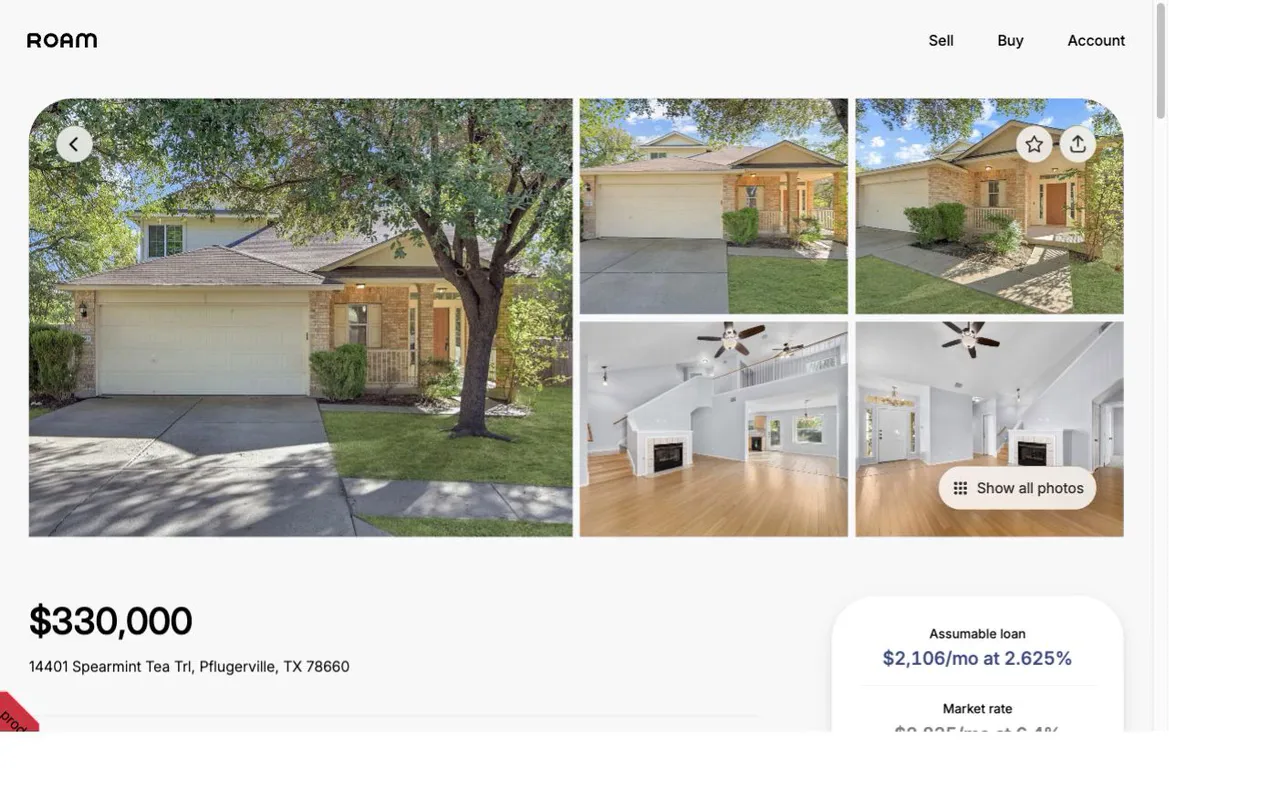
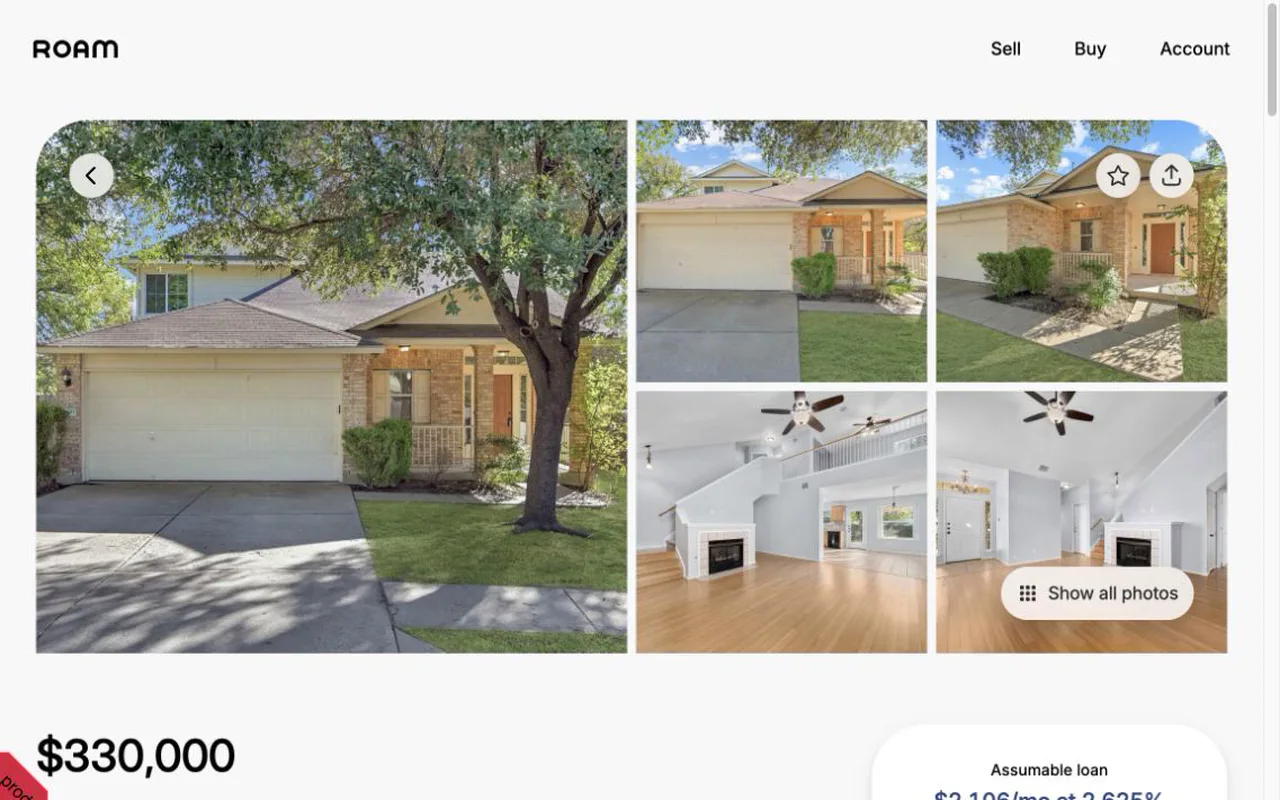
Fix Roam tour playback and framing

diff --git a/tests/e2e/about.spec.ts b/tests/e2e/about.spec.ts
@@ -187,6 +187,8 @@ test('about page carries the broader story, experience, and education', async ({
       height: (video as HTMLVideoElement).videoHeight,
     })),
   ).toEqual({ width: 390, height: 844 });
+  await expect(desktopTourVideo).toHaveCSS('object-fit', 'contain');
+  await expect(mobileTourVideo).toHaveCSS('object-fit', 'contain');
 
   await paymentsTab.focus();
   await page.keyboard.press('ArrowLeft');

diff --git a/src/assets/experience/README.md b/src/assets/experience/README.md
@@ -6,8 +6,8 @@ These local images and the public video assets in `public/media/` support the Ro
 - `public/media/roam-search-mobile.*` is the authenticated 390×844 Austin search recording rendered in the Search view on `/about`. Captured from a Browser viewport override that exactly matches the inline SVG phone frame and normalized to 30 fps for delivery, it opens the mobile filter sheet, applies a 3.5% maximum rate, updates the visible inventory from 204 to 105 homes, and scrolls the filtered results. The WebM and MP4 encodes share `roam-search-mobile-poster.webp` and fit the phone frame without cropping or blank page space.
 - `public/media/roam-search.*` is the authenticated 1280×800 desktop recording rendered in the Search view. Its 30 fps encodes keep Account and the full filter bar visible while applying the same 3.5% maximum rate, updating the inventory from 204 to 105 homes, and smoothly scrolling the map-and-card results.
 - `public/media/roam-calculator-mobile.*` is the authenticated 390×844 recording rendered in the Payments view. Its 30 fps encodes move from the payment sliders into the payment details, then open the property-tax and home-insurance rows. The capture compensates for the listing page's mobile viewport scaling and crops to the exact phone-frame bounds, so no edge is clipped or stretched.
-- `public/media/roam-product-tour.*` is the authenticated 1280×800 recording rendered in the Tour view. The 30 fps desktop capture starts with the complete listing photo grid and Account navigation, moves through the $330,000 home and its $64,857 minimum down payment (19.7%), then opens Property tax and changes the rate from 2.04% to 1.8%.
-- `public/media/roam-product-tour-mobile.*` is the authenticated 390×844 recording rendered in the Tour view. It opens the mobile filter sheet, applies a 3.5% maximum rate, enters the featured 7409 Lantern View home from the filtered results, and moves through several full-width listing photos. Every source frame is normalized to the phone-frame width before its height is cropped, preserving the complete mobile viewport without clipping the right edge.
+- `public/media/roam-product-tour.*` is the authenticated 1280×800 recording rendered in the Tour view. The 30 fps desktop capture starts with the complete listing photo grid and Account navigation, moves through the $330,000 home and its $64,857 minimum down payment (19.7%), then opens Property tax and changes the rate from 2.04% to 1.8%. Its fixed 16:10 source rectangle and eased frame-by-frame scroll path keep the full viewport visible with stable motion.
+- `public/media/roam-product-tour-mobile.*` is the authenticated 390×844 recording rendered in the Tour view. It opens the mobile filter sheet, applies a 3.5% maximum rate, enters the featured 7409 Lantern View home from the filtered results, and performs two real carousel swipes through full-width listing photos. The fixed phone-size source rectangle is scaled as one complete viewport rather than cropped from changing frame sizes.
 - `scripts/record-roam-demos.mjs` regenerates the authenticated desktop search and calculator captures at 30 fps, along with WebP posters and MP4 fallbacks when the selected ffmpeg build includes `libx264`. `ROAM_STORAGE_STATE` is required and must point to a deliberately exported Playwright storage-state file; the script never reads the in-app browser's session.
 - `reed-home.jpg` and `reed-chat.jpg` were captured from Reed's public homepage and unauthenticated buyer-start flow.
 - `agent-harness-chat.png` and `agent-harness-subagents.png` were captured from an isolated Mission Control test server. The harness used temporary storage, fake CLIs, and a manually seeded synthetic launch-review transcript; it did not read live Mission Control state.